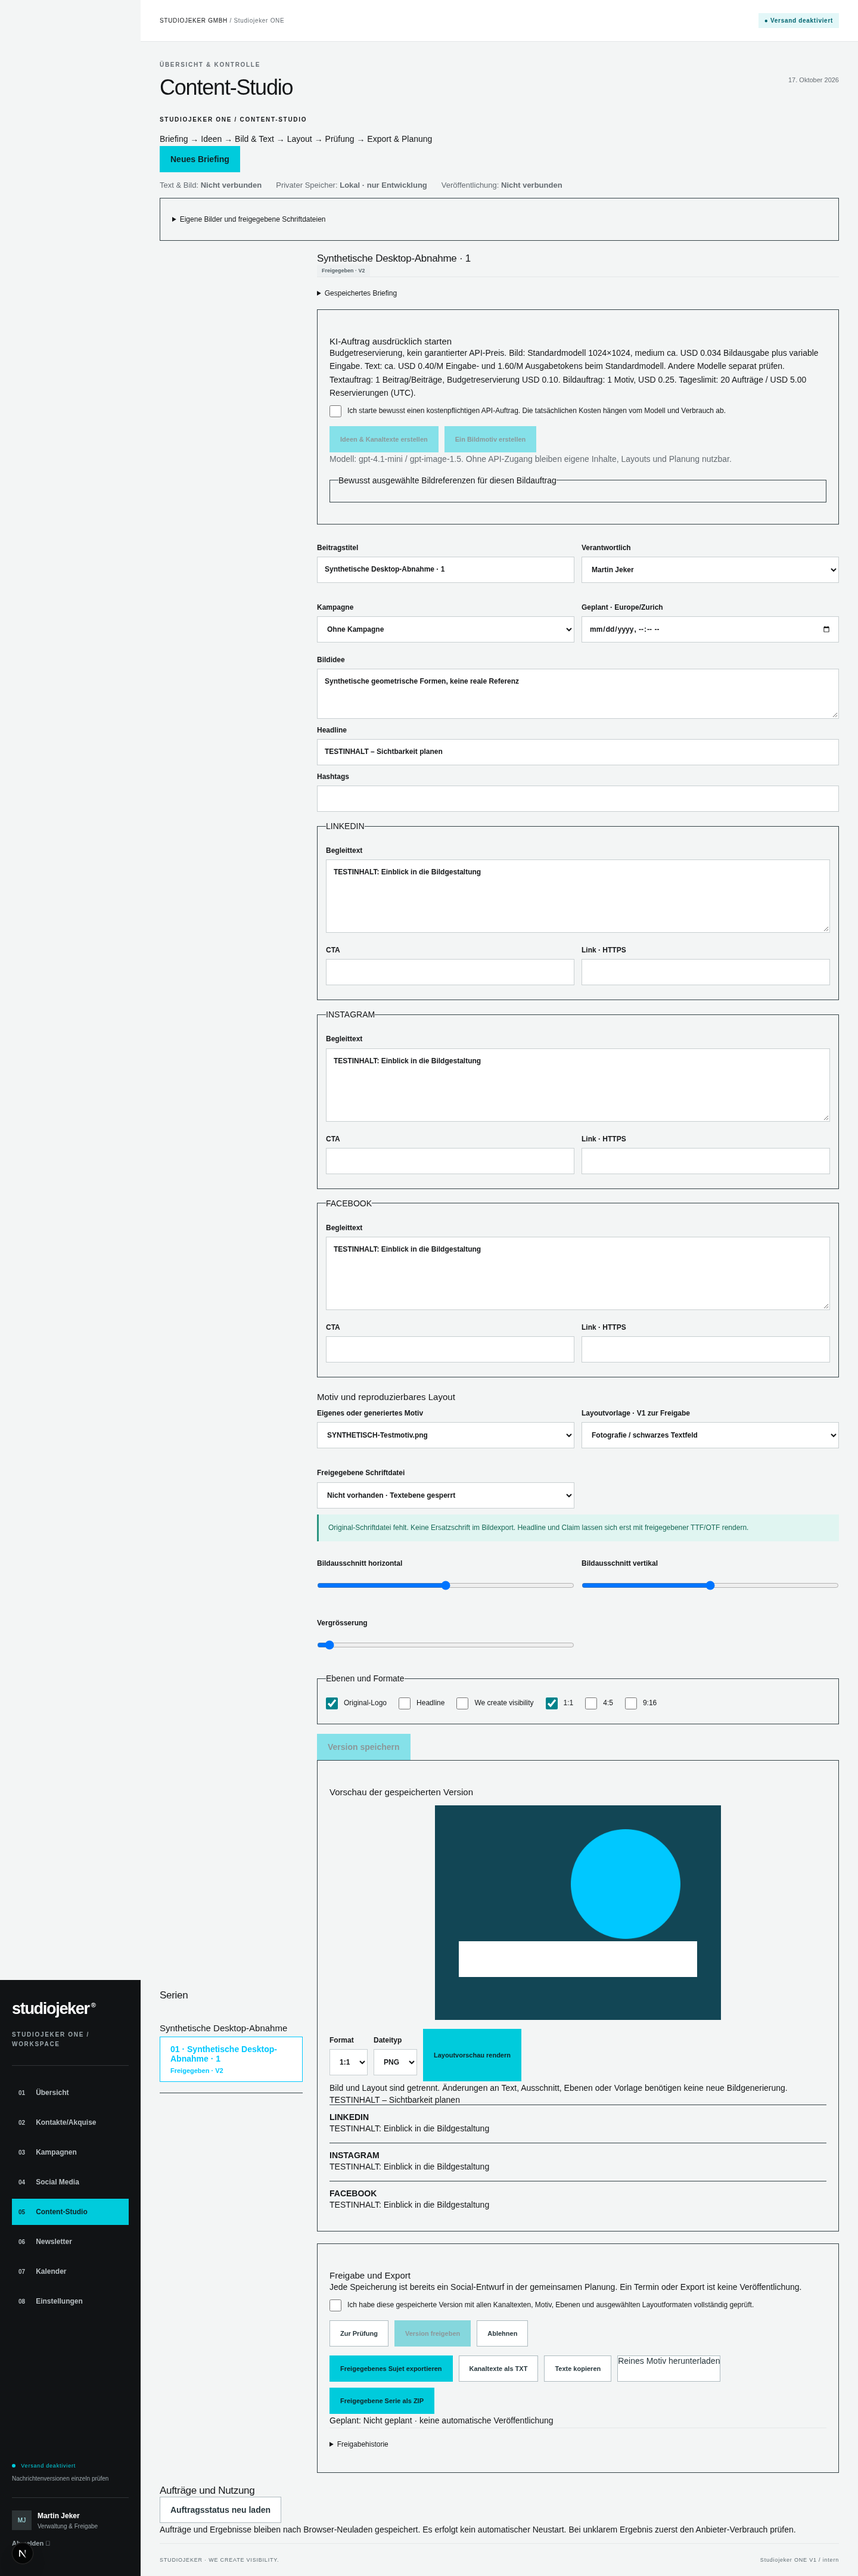
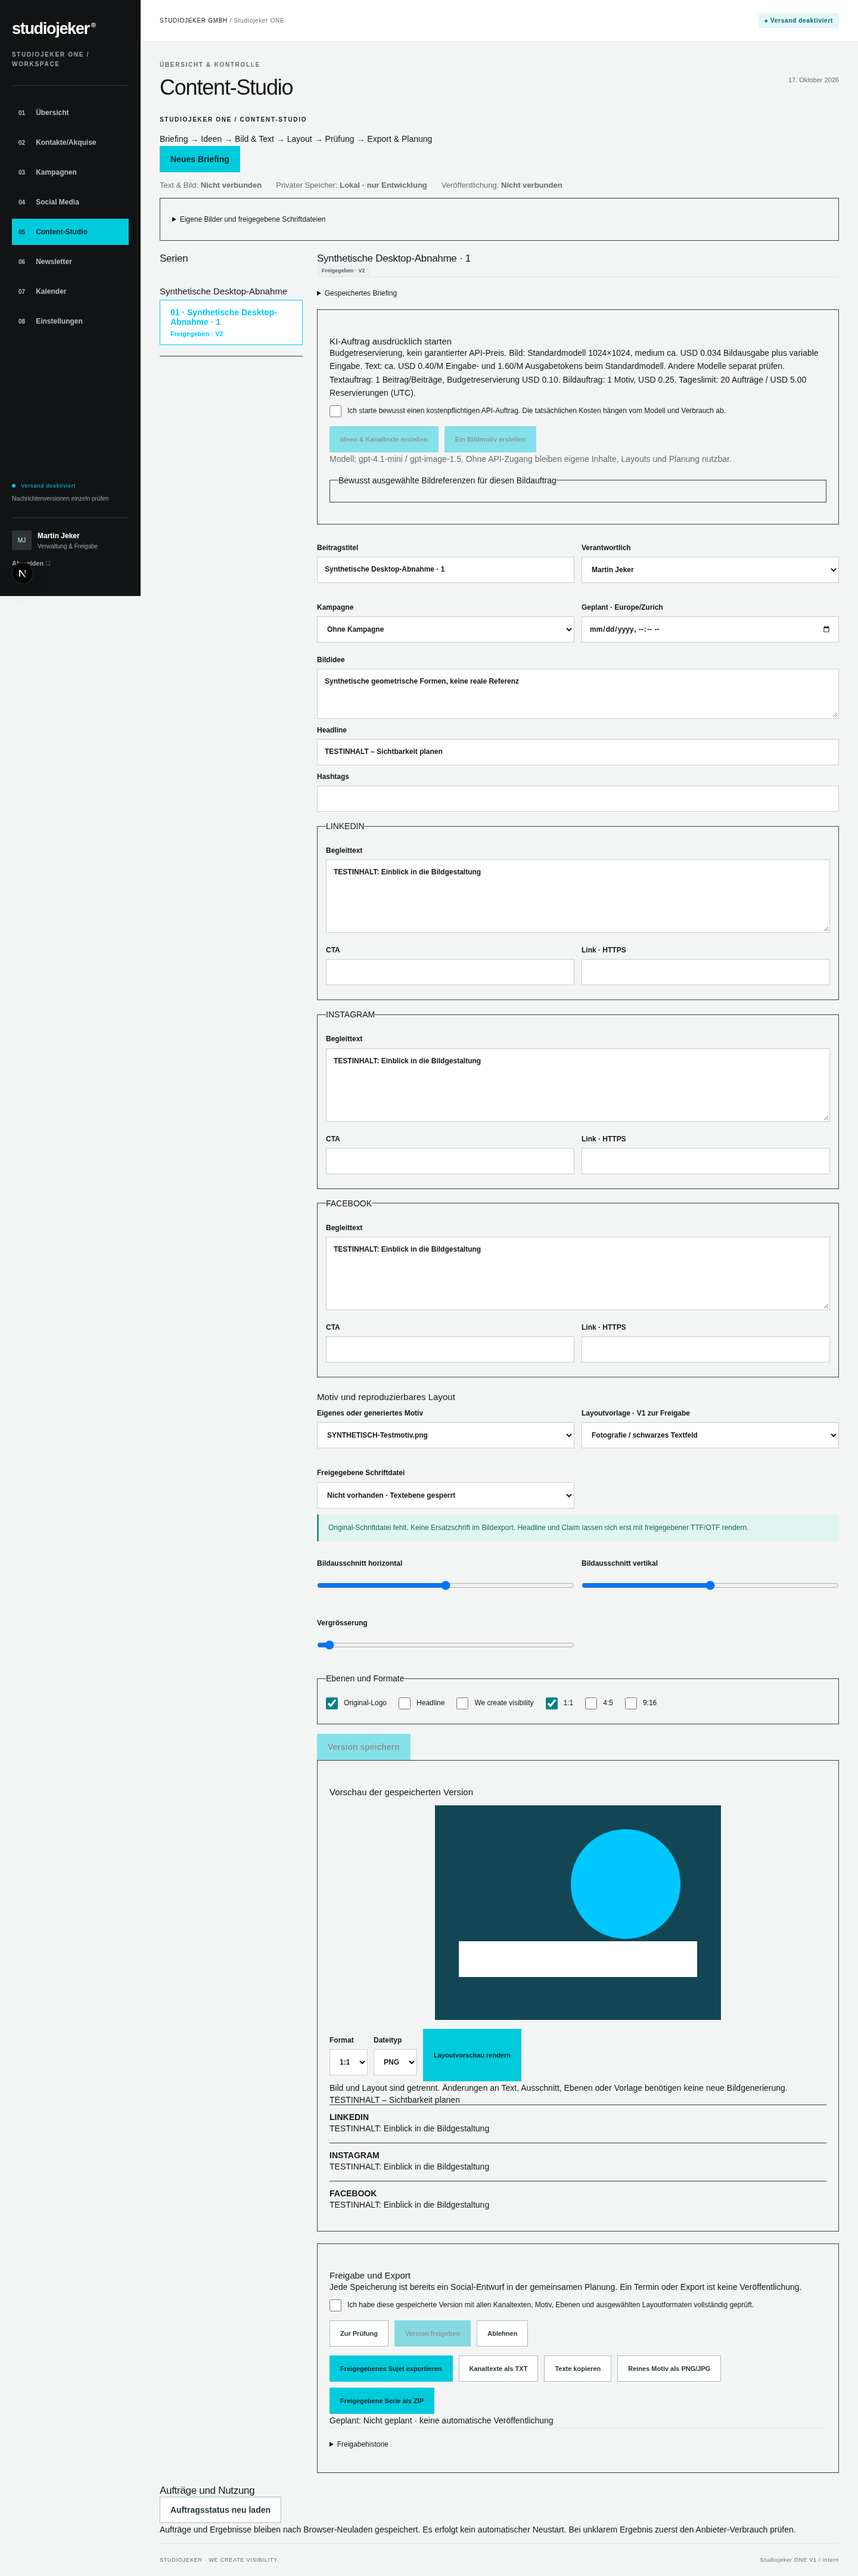
Finish Content Studio desktop verification and stable original-font rendering

Changed region(s): [[0.0, 0.7497, 0.2812, 1.0], [0.0, 0.0, 0.25, 0.2499]]

diff --git a/apps/akquise/lib/studio/render.ts b/apps/akquise/lib/studio/render.ts
@@ -1,6 +1,7 @@
 import sharp, { type OverlayOptions } from "sharp";
 import { ZipArchive } from "archiver";
-import { mkdtemp, writeFile, rm } from "node:fs/promises";
+import { mkdir, readFile, writeFile } from "node:fs/promises";
+import { createHash } from "node:crypto";
 import { tmpdir } from "node:os";
 import { join } from "node:path";
 import { db } from "../db";
@@ -102,102 +103,114 @@ export async function renderLayout(
     left: 0,
     top: panelY,
   });
-  let temp: string | undefined;
-  try {
-    if ((s.showHeadline && s.headline) || s.showClaim) {
-      if (!s.fontAssetId)
-        throw new PolicyError(
-          "Freigegebene Original-Schriftdatei fehlt. Schrift hochladen oder Textebene ausblenden.",
-          409,
-        );
-      const font = await readAsset(actor, s.fontAssetId, store);
-      if (font.asset.kind !== "FONT" || font.asset.sha256 !== s.fontSha256)
-        throw new PolicyError("Schriftversion nicht gültig.", 409);
-      const family = fontFamily(font.bytes);
-      temp = await mkdtemp(join(tmpdir(), "studio-font-"));
-      const fontPath = join(temp, "brand.ttf");
-      await writeFile(fontPath, font.bytes, { mode: 0o600 });
-      if (s.showHeadline && s.headline) {
-        const availableHeight = height - panelY - 180;
-        let text: Buffer | undefined;
-        for (let size = 64; size >= 32; size -= 4) {
-          const candidate = await sharp({
-            text: {
-              text: `<span foreground="#ffffff">${escape(s.headline)}</span>`,
-              font: `${family} ${size}`,
-              fontfile: fontPath,
-              width: width - 96,
-              rgba: true,
-              wrap: "word-char",
-            },
-          })
-            .png()
-            .toBuffer();
-          if ((await sharp(candidate).metadata()).height! <= availableHeight) {
-            text = candidate;
-            break;
-          }
-        }
-        if (!text)
-          throw new PolicyError(
-            "Headline passt nicht in diese Vorlage. Bitte kürzen.",
-          );
-        overlays.push({ input: text, left: 48, top: panelY + 30 });
-      }
-      if (s.showClaim) {
-        const text = await sharp({
+
+  if ((s.showHeadline && s.headline) || s.showClaim) {
+    if (!s.fontAssetId)
+      throw new PolicyError(
+        "Freigegebene Original-Schriftdatei fehlt. Schrift hochladen oder Textebene ausblenden.",
+        409,
+      );
+    const font = await readAsset(actor, s.fontAssetId, store);
+    if (font.asset.kind !== "FONT" || font.asset.sha256 !== s.fontSha256)
+      throw new PolicyError("Schriftversion nicht gültig.", 409);
+    const family = fontFamily(font.bytes);
+    // Pango caches registered file paths. Keep an immutable per-hash cache
+    // for the runtime lifetime; deleting each temporary file causes fallback
+    // or "scaled_font: file not found" on the next export. S3 remains canonical.
+    const cache = join(tmpdir(), "studio-brand-fonts");
+    await mkdir(cache, { recursive: true, mode: 0o700 });
+    const fontPath = join(cache, `${font.asset.sha256}.ttf`);
+    try {
+      await writeFile(fontPath, font.bytes, { mode: 0o600, flag: "wx" });
+    } catch (e) {
+      if ((e as NodeJS.ErrnoException).code !== "EEXIST") throw e;
+    }
+    if (
+      createHash("sha256")
+        .update(await readFile(fontPath))
+        .digest("hex") !== font.asset.sha256
+    )
+      throw new PolicyError(
+        "Schriftcache-Prüfsumme stimmt nicht überein.",
+        503,
+      );
+    process.env.XDG_CACHE_HOME ||= join(tmpdir(), "studio-fontconfig-cache");
+    await mkdir(process.env.XDG_CACHE_HOME, { recursive: true, mode: 0o700 });
+    if (s.showHeadline && s.headline) {
+      const availableHeight = height - panelY - 180;
+      let text: Buffer | undefined;
+      for (let size = 64; size >= 32; size -= 4) {
+        const candidate = await sharp({
           text: {
-            text: '<span foreground="#00c8ff">We create visibility</span>',
-            font: `${family} 28`,
+            text: `<span foreground="#ffffff">${escape(s.headline)}</span>`,
+            font: `${family} ${size}`,
             fontfile: fontPath,
+            width: width - 96,
             rgba: true,
+            wrap: "word-char",
           },
         })
           .png()
           .toBuffer();
-        overlays.push({ input: text, left: 48, top: height - 54 });
+        if ((await sharp(candidate).metadata()).height! <= availableHeight) {
+          text = candidate;
+          break;
+        }
       }
+      if (!text)
+        throw new PolicyError(
+          "Headline passt nicht in diese Vorlage. Bitte kürzen.",
+        );
+      overlays.push({ input: text, left: 48, top: panelY + 30 });
     }
-    if (s.showLogo) {
-      // Exact original SVG bytes; preserve its aspect ratio and colours.
-      const logo = await sharp(logoBytes())
-        .resize({ width: 220 })
-        .png()
-        .toBuffer();
-      const lm = await sharp(logo).metadata();
-      const plate = await sharp({
-        create: {
-          width: 244,
-          height: lm.height! + 24,
-          channels: 4,
-          background: "#ffffff",
+    if (s.showClaim) {
+      const text = await sharp({
+        text: {
+          text: '<span foreground="#00c8ff">We create visibility</span>',
+          font: `${family} 28`,
+          fontfile: fontPath,
+          rgba: true,
         },
       })
         .png()
         .toBuffer();
-      overlays.push({
-        input: plate,
-        left: width - 220 - 52,
-        top: height - lm.height! - 36,
-      });
-      overlays.push({
-        input: logo,
-        left: width - 220 - 40,
-        top: height - lm.height! - 24,
-      });
+      overlays.push({ input: text, left: 48, top: height - 54 });
     }
-    const image = sharp({
-      create: { width, height, channels: 4, background: "#000000" },
-    }).composite(overlays);
-    return encoding === "jpg"
-      ? image
-          .flatten({ background: "#000000" })
-          .jpeg({ quality: 92 })
-          .toBuffer()
-      : image.png().toBuffer();
-  } finally {
-    if (temp) await rm(temp, { recursive: true, force: true });
   }
+  if (s.showLogo) {
+    // Exact original SVG bytes; preserve its aspect ratio and colours.
+    const logo = await sharp(logoBytes())
+      .resize({ width: 220 })
+      .png()
+      .toBuffer();
+    const lm = await sharp(logo).metadata();
+    const plate = await sharp({
+      create: {
+        width: 244,
+        height: lm.height! + 24,
+        channels: 4,
+        background: "#ffffff",
+      },
+    })
+      .png()
+      .toBuffer();
+    overlays.push({
+      input: plate,
+      left: width - 220 - 52,
+      top: height - lm.height! - 36,
+    });
+    overlays.push({
+      input: logo,
+      left: width - 220 - 40,
+      top: height - lm.height! - 24,
+    });
+  }
+  const image = sharp({
+    create: { width, height, channels: 4, background: "#000000" },
+  }).composite(overlays);
+  return encoding === "jpg"
+    ? image.flatten({ background: "#000000" }).jpeg({ quality: 92 }).toBuffer()
+    : image.png().toBuffer();
 }
 export function channelTexts(payload: ReturnType<typeof contentInput.parse>) {
   return payload.variants

diff --git a/apps/akquise/docs/CONTENT_STUDIO_TEST_RESULTS.md b/apps/akquise/docs/CONTENT_STUDIO_TEST_RESULTS.md
@@ -7,8 +7,8 @@ Keine kostenpflichtigen KI-Aufrufe, keine externen E-Mails, keine Veröffentlich
 - 5 neue Unit-/Konfigurationsprüfungen: 1–6 Beiträge/eindeutige Kanäle/Formate, Schweizer ss, fehlender Key/keine Secrets im öffentlichen Status, unverändertes Original-Logo, Produktionssperre für lokalen Bildspeicher.
 - 4 bestehende Hub-Unitprüfungen (Zeitumstellung, URLs, sicherer Newsletter-Export, Eingabevalidierung).
 - 4 Render-Guard-Prüfungen, einschliesslich unveränderter SMTP-Sperren.
-- 9 ausgewählte PostgreSQL-Fälle über gezielte Läufe: vier bestehende Hub-Fälle (Berechtigungen, versionsgebundene Freigabe, Newsletter-Export ohne Transfer, Akquise/Kalender) sowie fünf Studio-Fälle (Serien/Persistenz, Assetrechte/Tampering/Importgrenzen, PNG/JPG/ZIP und Freigabeentwertung, fehlende Schriftdatei, KI-Auftragsdeduplikation/Limits/Fehler/Reload).
-- Eine Desktop-Browser-Abnahme (14.7 Sekunden): persönlicher Login, Originalbild-Upload, Briefing, Editieren/Speichern, Reload, getrennte KI-Verbindung, Layoutvorschau, Freigabe, PNG-Download, Freigabeentwertung. Zusätzlich Breiten 1024 und 390 ohne Horizontalüberlauf. Sieben Screenshots in docs/screenshots/studio-*.png.
+- 10 ausgewählte PostgreSQL-Fälle über gezielte Läufe: vier bestehende Hub-Fälle (Berechtigungen, versionsgebundene Freigabe, Newsletter-Export ohne Transfer, Akquise/Kalender) sowie sechs Studio-Fälle (Serien/Persistenz, Assetrechte/Tampering/Importgrenzen, PNG/JPG/ZIP und Freigabeentwertung, fehlende Schriftdatei, KI-Auftragsdeduplikation/Limits/Fehler/Reload, vollständiges Textlayout mit expliziter Testschrift).
+- Eine Desktop-Browser-Abnahme (14.3 Sekunden): persönlicher Login, Originalbild-Upload, Briefing, Editieren/Speichern, Reload, getrennte KI-Verbindung, Layoutvorschau, Freigabe, PNG-Download, Freigabeentwertung. Zusätzlich Breiten 1024 und 390 ohne Horizontalüberlauf. Sieben Screenshots in docs/screenshots/studio-*.png.
 - Produktionsbuild nach den letzten Code-/Prisma-Korrekturen erfolgreich. Gezieltes ESLint und TypeScript erfolgreich.
 - Zusätzliche lokale native Fontprüfung mit ausdrücklich synthetischer DejaVu-Testschrift in allen drei Zielhöhen erfolgreich. Diese Schrift ist kein freigegebenes Markenasset und wird nicht ausgeliefert. Ein schreibbarer XDG_CACHE_HOME verhindert lokale Fontconfig-Cachewarnungen.
 
@@ -16,7 +16,7 @@ Keine kostenpflichtigen KI-Aufrufe, keine externen E-Mails, keine Veröffentlich
 
 npm-Blockade beseitigt: schreibbarer /tmp-Cache und begrenzte Netzwerkabrufe. Für gefilterte node:test-Läufe mussten späte Top-Level-Imports vor Hook-/Testregistrierung verschoben werden; sonst konnte Schema-Cleanup vor der späteren Testregistrierung starten. Prisma-Organisationsrelation und JSONB-Schlüsselreihenfolge beim deduplizierten Auftrag wurden korrigiert. Nur fehlgeschlagene/betroffene Fälle wiederholt, keine erneute vollständige lokale Testsuite.
 
-Nach der erfolgreichen Browser-Abnahme wurde die Logo-Lesbarkeit durch eine separate weisse Hintergrundfläche verbessert (Originaldatei unverändert) und der reine Motivexport explizit als PNG/JPG ergänzt. Die Screenshots zeigen den bereits geprüften Ablauf vor diesen kleinen Korrekturen. Die zusätzlich angelegten gezielten Datenbankprüfungen für den reinen Motivexport und ein komplettes Layout mit expliziter Testschrift konnten lokal nach Unterbrechung der erneuten Netzwerk-Freigabe nicht mehr ausgeführt werden. Native Schrift-/Layoutgrössen wurden separat ohne Netzwerk geprüft. Diese Fälle sind Teil des bestehenden GitHub-CI-Checks; bis zu dessen Ergebnis nicht als dort bestanden behandeln.
+Nach der ersten Browser-Abnahme wurde die Logo-Lesbarkeit durch eine separate weisse Hintergrundfläche verbessert (Originaldatei unverändert), der reine Motivexport explizit als PNG/JPG ergänzt und der Schriftcache korrigiert: Pango benötigt über wiederholte Exporte hinweg einen stabilen Dateipfad. Daher liegt eine per SHA256 geprüfte temporäre Laufzeitkopie je Schrift unter /tmp; S3 bleibt die dauerhafte Quelle. Die zwei betroffenen Export-/Font-Fälle liefen anschliessend erfolgreich. Der gezielt wiederholte Font-Test war nach der Korrektur ohne Pango-Dateiwarnung erfolgreich. Der einzelne Desktop-Browserablauf wurde wegen dieser konkreten Änderungen auf dem letzten Stand wiederholt (14.3 s) und die sieben Screenshots aktualisiert. Keine vollständige lokale Suite wiederholt.
 
 ## Offen
 

diff --git a/apps/akquise/docs/CONTENT_STUDIO.md b/apps/akquise/docs/CONTENT_STUDIO.md
@@ -28,7 +28,7 @@ API-Zeitlimit 95 Sekunden. Kein Hintergrundworker gebucht. Lange Bildaufträge k
 
 ## Privater Speicher, Sicherung und Löschung
 
-Produktion benötigt privates S3-kompatibles Object Storage. Keine Render-Dateisystem-Persistenz und kein öffentliches Bucket. S3-Schlüssel nur serverseitig; Berechtigungen auf genau den Bucket und GetObject/PutObject/DeleteObject begrenzen. Die App liefert Dateien ausschliesslich über authentifizierte /api/studio/assets/:id aus, prüft Organisation und SHA256, mit no-store und nosniff. Nicht authentifizierte Aufrufe scheitern vor dem Asset-Zugriff. Upload nur JPEG/PNG/WebP (tatsächlicher Decoder), keine SVG/HTML, maximal 8 MiB / 20 MP und keine Animationen. Schriften separat als TTF/OTF mit Rechtebestätigung. Originaldatei bleibt unverändert; Exporte sind neue Objekte. EXIF ist in Originaldownloads enthalten; in neu gerenderten Sujets nicht übernommen.
+Produktion benötigt privates S3-kompatibles Object Storage. Keine Render-Dateisystem-Persistenz und kein öffentliches Bucket. S3-Schlüssel nur serverseitig; Berechtigungen auf genau den Bucket und GetObject/PutObject/DeleteObject begrenzen. Die App liefert Dateien ausschliesslich über authentifizierte /api/studio/assets/:id aus, prüft Organisation und SHA256, mit no-store und nosniff. Nicht authentifizierte Aufrufe scheitern vor dem Asset-Zugriff. Upload nur JPEG/PNG/WebP (tatsächlicher Decoder), keine SVG/HTML, maximal 8 MiB / 20 MP und keine Animationen. Schriften separat als TTF/OTF mit Rechtebestätigung. Originaldatei bleibt unverändert; Exporte sind neue Objekte. Schriften werden zur Laufzeit mit unveränderter SHA256 in einen privaten /tmp-Cache kopiert; stabile Pfade verhindern Pango-Fallback nach wiederholten Exporten. Der Cache ist keine dauerhafte Ablage und wird aus dem privaten Objektspeicher wiederhergestellt. EXIF ist in Originaldownloads enthalten; in neu gerenderten Sujets nicht übernommen.
 
 Für lokale Entwicklung STUDIO_LOCAL_ASSETS=true setzen; nur ausserhalb production wirksam. .local/studio-assets und Datenbank zusammen sichern. Testadapter nutzen explizit injizierten Speicher und KI im Testprozess, keinen Produktionsschalter für Fake-Ausgaben.
 

diff --git a/apps/akquise/docs/CONTENT_STUDIO_CHECKPOINT.md b/apps/akquise/docs/CONTENT_STUDIO_CHECKPOINT.md
@@ -13,3 +13,5 @@ Nach Wiederaufnahme: npm-Installation mit Netzwerkrechten und begrenzten Abrufze
 Gezielte Datenbankprüfung: Migration in neuer lokaler Test-Schema-Instanz erfolgreich. Gefilterte node:test-Läufe deckten einen bestehenden Fixture-Race durch späte Top-Level-Imports auf; Imports vor Hook-/Testregistrierung verschoben und CLI-Kindprozess begrenzt. Zusätzlich explizite Organisationsrelation im Prisma-Schema korrigiert. 8/9 ausgewählte Fälle danach erfolgreich; verbleibender Fall zeigte JSONB-Schlüsselreihenfolge beim Request-Key-Vergleich. Vergleich nun über erneut validiertes, kanonisches Schema.
 
 GitHub-Zugriff: PR #142 ist inzwischen geschlossen/integriert; aktueller #141-Head 03688c06448326ed40a38620ae948ebb10050545 hat denselben Codebaum wie die gesicherte Basis. Neuer Remote-Branch feat/studiojeker-one-content-studio wurde von diesem Commit angelegt. Kein Merge durch diese Arbeit.
+
+Abschlusskorrekturen: reine Motive auch als PNG/JPG, weisse separate Logo-Hintergrundfläche ohne Veränderung der Originaldatei, stabiler SHA256-Schriftcache gegen Pango-Dateifallback. Die beiden gezielten Exportfälle sowie der nachfolgende einzelne Fontfall erfolgreich; finaler Desktop-Browserablauf 14.3 s erfolgreich. Screenshots neu erstellt. Keine vollständige lokale Suite wiederholt. Produktionsbuild und private gefilterte Paketierung erfolgreich, Original-Logo-Prüfsumme im Paket identisch.

diff --git a/apps/akquise/docs/CONTENT_STUDIO_PR.md b/apps/akquise/docs/CONTENT_STUDIO_PR.md
@@ -16,7 +16,7 @@ PR #142 wurde bereits in `feat/akquise-render-frankfurt` (#141) integriert. Dies
 
 ## Prüfung und Review
 
-Produktionsbuild, TypeScript, gezieltes ESLint, 5 Studio-Units, 4 Hub-Units, 4 Render-Guards, 9 gezielte PostgreSQL-Fälle und 1 Desktop-Browserablauf inkl. Reload/Freigabe/Download/Entwertung erfolgreich. Sieben synthetische Screenshots. Keine erneut vollständig gestartete lokale Testsuite. Zwei nachträglich ergänzte Export-/Font-Integrationserweiterungen lokal wegen unterbrochener Netzwerkfreigabe offen; CI-Ergebnis vor Reviewabschluss prüfen.
+Produktionsbuild, TypeScript, gezieltes ESLint, 5 Studio-Units, 4 Hub-Units, 4 Render-Guards, 10 gezielte PostgreSQL-Fälle und 1 Desktop-Browserablauf inkl. Reload/Freigabe/Download/Entwertung erfolgreich. Sieben synthetische Screenshots. Keine erneut vollständig gestartete lokale Testsuite. Die beiden nachträglich ergänzten Export-/Font-Fälle und der einzelne Desktopablauf sind nach den letzten Korrekturen ebenfalls erfolgreich. Der Schriftcache bleibt pro Datei-Hash über die Laufzeit stabil, damit Pango keine gelöschten temporären Fonts referenziert. CI-Ergebnis vor Reviewabschluss prüfen.
 
 Dokumentation: `apps/akquise/docs/CONTENT_STUDIO.md`, Prüfergebnisse `CONTENT_STUDIO_TEST_RESULTS.md`, Wiederaufnahme-/Sicherungsnachweis `CONTENT_STUDIO_CHECKPOINT.md`.
 

diff --git a/apps/akquise/docs/screenshots/README.md b/apps/akquise/docs/screenshots/README.md
@@ -15,3 +15,15 @@ Zusätzlich wurden iPad hoch und Mobil ohne Seitenüberlauf geprüft.
 
 Keine externen Integrationen verbunden; Termine sind ausschliesslich geplant.
 Screenshots sind keine Nachweise einer Veröffentlichung oder eines Versands.
+
+## Content-Studio / Studiojeker ONE Desktop V1
+
+Sämtliche Motive und Texte sind synthetisch; keine KI-Livegenerierung. Der Ablauf wurde mit privaten lokalen Entwicklungsassets im isolierten Testschema geprüft. Schriftdatei für Produktionslayouts noch nicht freigegeben; die Bildlayouts enthalten daher keine eingebrannte Headline/Claim.
+
+- [Briefing](studio-01-briefing-desktop.png)
+- [Gespeicherter Editor](studio-02-editor-desktop.png)
+- [Motiv und reproduzierbare Layoutvorschau](studio-03-layout-desktop.png)
+- [Konkrete Inhaltsfreigabe](studio-04-freigabe-desktop.png)
+- [Entwertung nach Änderung](studio-05-entwertung-desktop.png)
+- [1024 Pixel](studio-1024.png)
+- [390 Pixel](studio-390.png)
